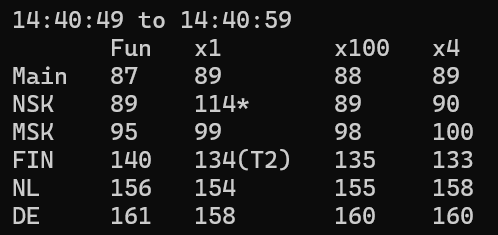
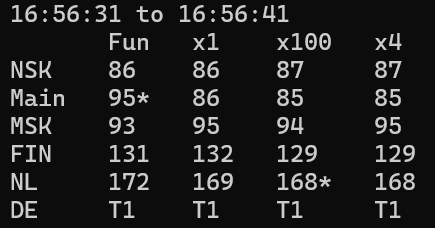
update timeouts picture

diff --git a/README.ru.md b/README.ru.md
@@ -29,7 +29,7 @@
 
 ## Таймауты
 
-Если в процессе получения пинга сетевой запрос выполняется слишком долго - то он прерывается и считается таймаутом. Таймауты отображаются буквой T и числом - например `T2`:
+Если в процессе получения пинга сетевой запрос выполняется слишком долго - то он прерывается и считается таймаутом. Таймауты отображаются буквой T и числом - например `T1`:
 
 ![console output with timeout](./images/timeouts.png)
 

diff --git a/README.md b/README.md
@@ -29,7 +29,7 @@ If ping is not stable and changes fast - it's called ping deviation. Ping deviat
 
 ## Timeouts
 
-If a network ping request takes too long to complete - it is aborted and marked as a timeout. Timeouts are displayed as the letter T and a number - for example `T2`:
+If a network ping request takes too long to complete - it is aborted and marked as a timeout. Timeouts are displayed as the letter T and a number - for example `T1`:
 
 ![console output with timeout](./images/timeouts.png)
 
